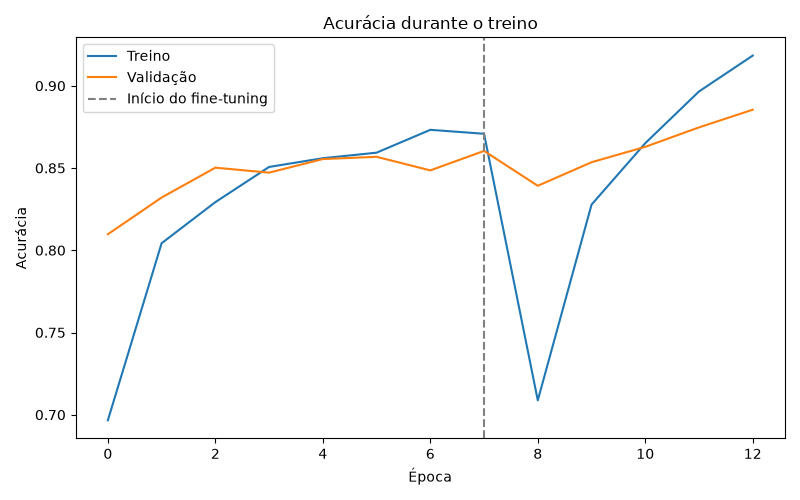
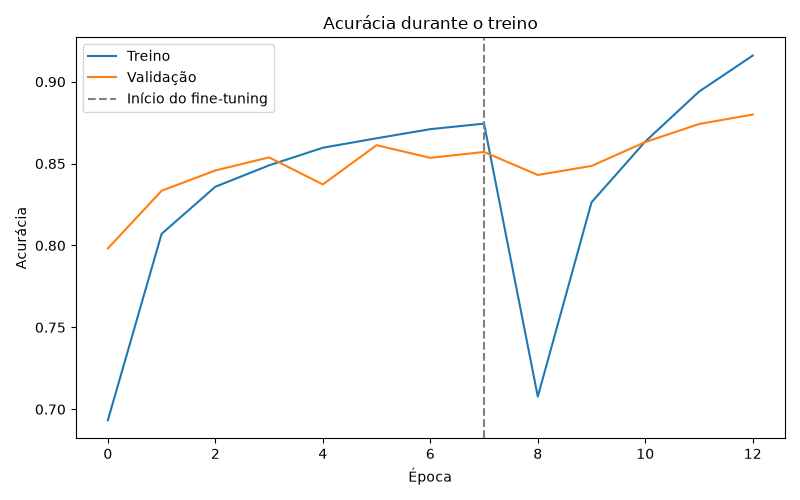
atualiza relatorios com modelo retreinado e exemplo da demo

diff --git a/src/demo.py b/src/demo.py
@@ -20,11 +20,10 @@ import cv2
 import matplotlib.pyplot as plt
 import tensorflow as tf
 
-from model_utils import build_model, IMG_SIZE
-
 DATA_DIR = "data"
-MODEL_PATH = "models/plant_disease_model.h5"
+MODEL_PATH = "models/plant_disease_model.keras"
 OUTPUT_DIR = "rotina_demo"
+IMG_SIZE = (160, 160)
 
 LOWER_GREEN = np.array([25, 40, 40])
 UPPER_GREEN = np.array([90, 255, 255])
@@ -119,11 +118,7 @@ def main():
         if os.path.isdir(os.path.join(DATA_DIR, d))
     )
 
-    # Reconstrói a arquitetura (mesmo código do treino) e carrega só os
-    # pesos, evitando o problema de compatibilidade do Keras ao
-    # desserializar o modelo completo salvo em .h5.
-    model, _ = build_model(num_classes=len(class_names), weights=None)
-    model.load_weights(MODEL_PATH, by_name=True, skip_mismatch=True)
+    model = tf.keras.models.load_model(MODEL_PATH)
 
     original, segmented = segment(img_path)
     predicted_class, confidence, top3 = predict(model, segmented, class_names)
@@ -134,4 +129,3 @@ def main():
 
 if __name__ == "__main__":
     main()
-    

diff --git a/src/train_model.py b/src/train_model.py
@@ -145,7 +145,7 @@ def main():
     )
 
     print("\nSalvando modelo...")
-    model.save("models/plant_disease_model.h5")
+    model.save("models/plant_disease_model.keras")
 
     plot_history(history_initial, history_fine)
 

diff --git a/README.md b/README.md
@@ -133,16 +133,3 @@ python src/preprocessing.py
 python src/train_model.py
 python src/demo.py
 ```
-
-## Observações técnicas
-
-**Carregamento do modelo (`demo.py`)**: o modelo é salvo em formato `.h5`
-ao final do treino. Esse formato, ao usar operações do TensorFlow
-aplicadas diretamente sobre os tensores dentro da arquitetura (no caso, o
-`preprocess_input` da MobileNetV2), gera camadas internas que o Keras não
-consegue desserializar de volta via `load_model()`. Para contornar isso
-sem precisar retreinar, `demo.py` reconstrói a arquitetura do modelo em
-código (função `build_model()` em `model_utils.py`, reaproveitada também
-pelo treino) e carrega apenas os pesos salvos, por nome de camada
-(`model.load_weights(..., by_name=True)`), em vez de carregar o modelo
-completo.
